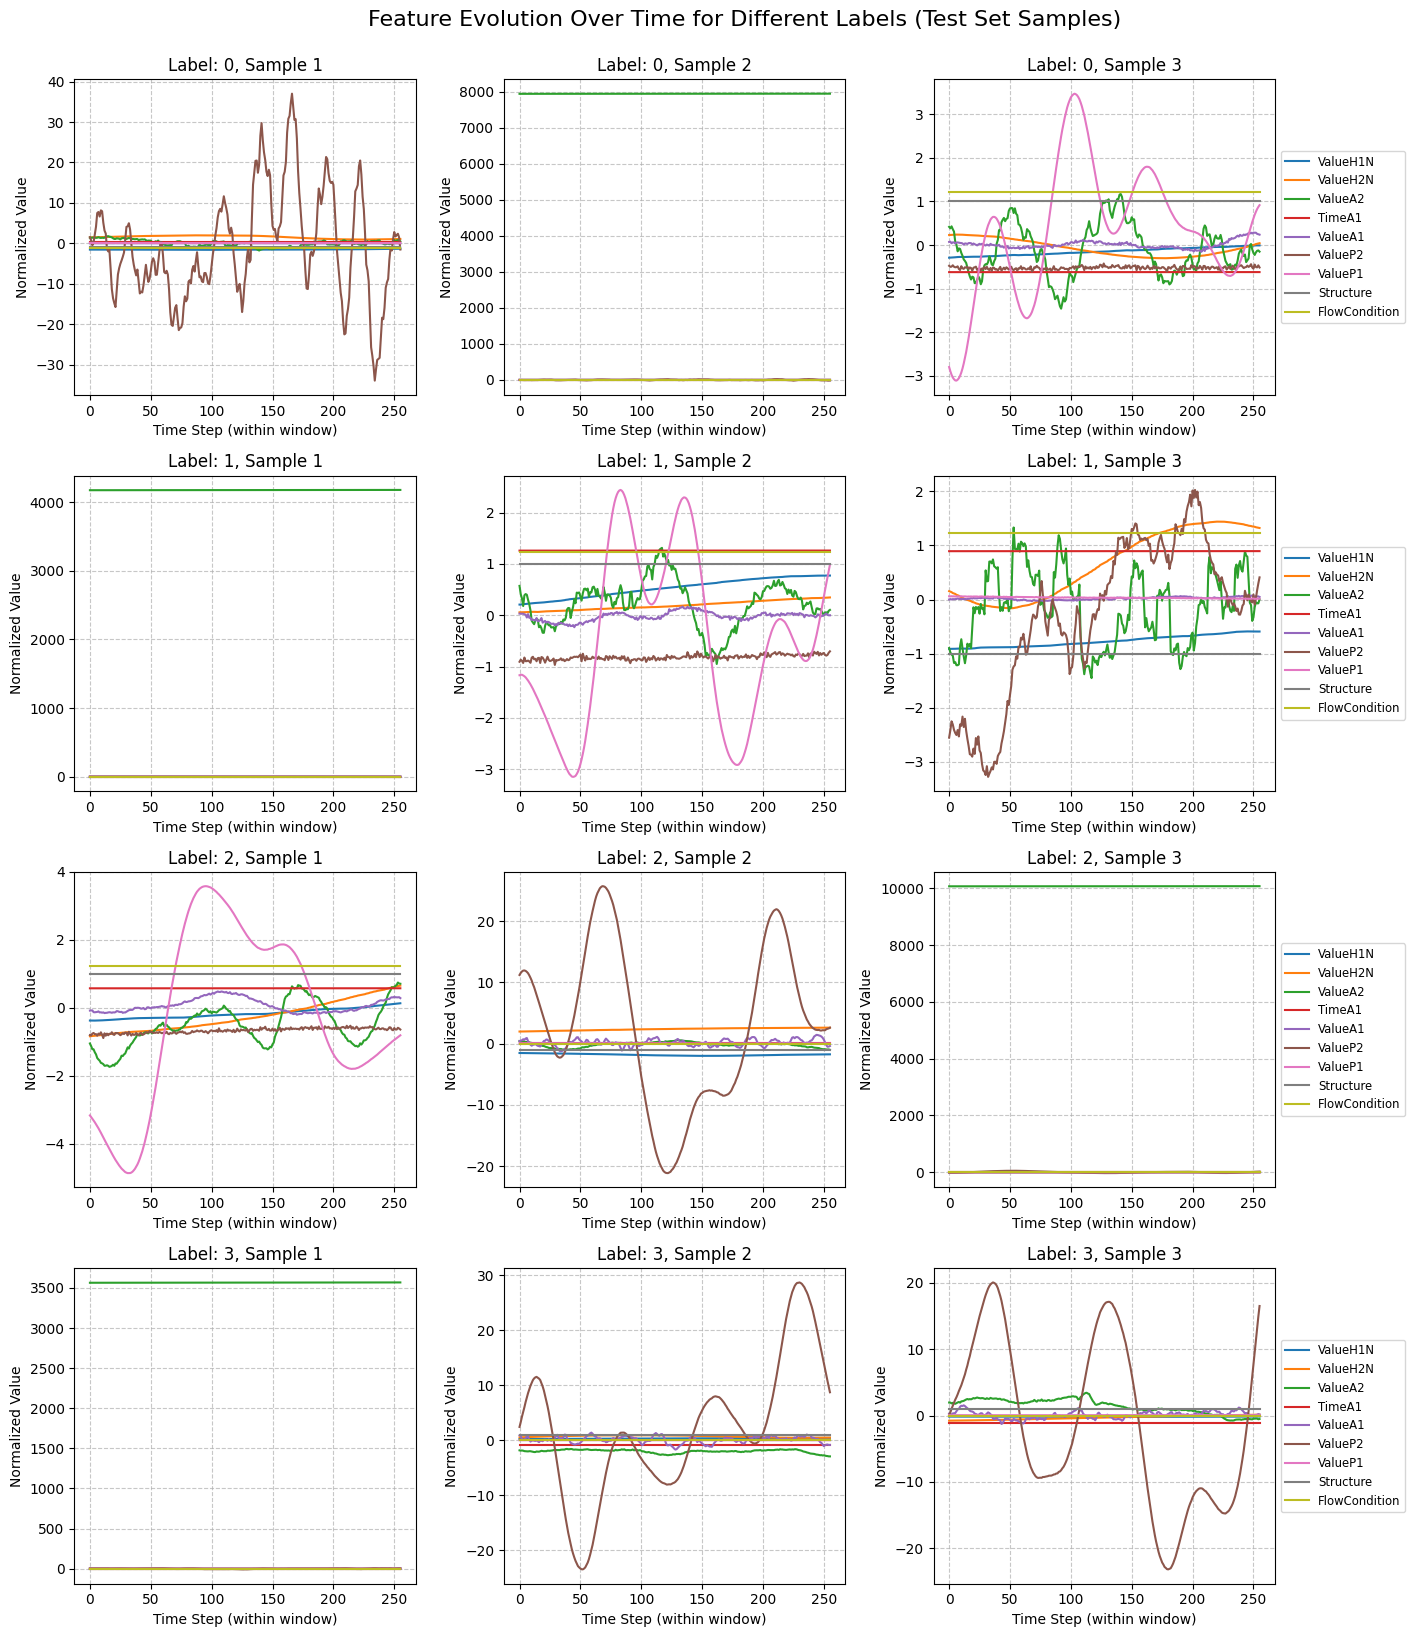
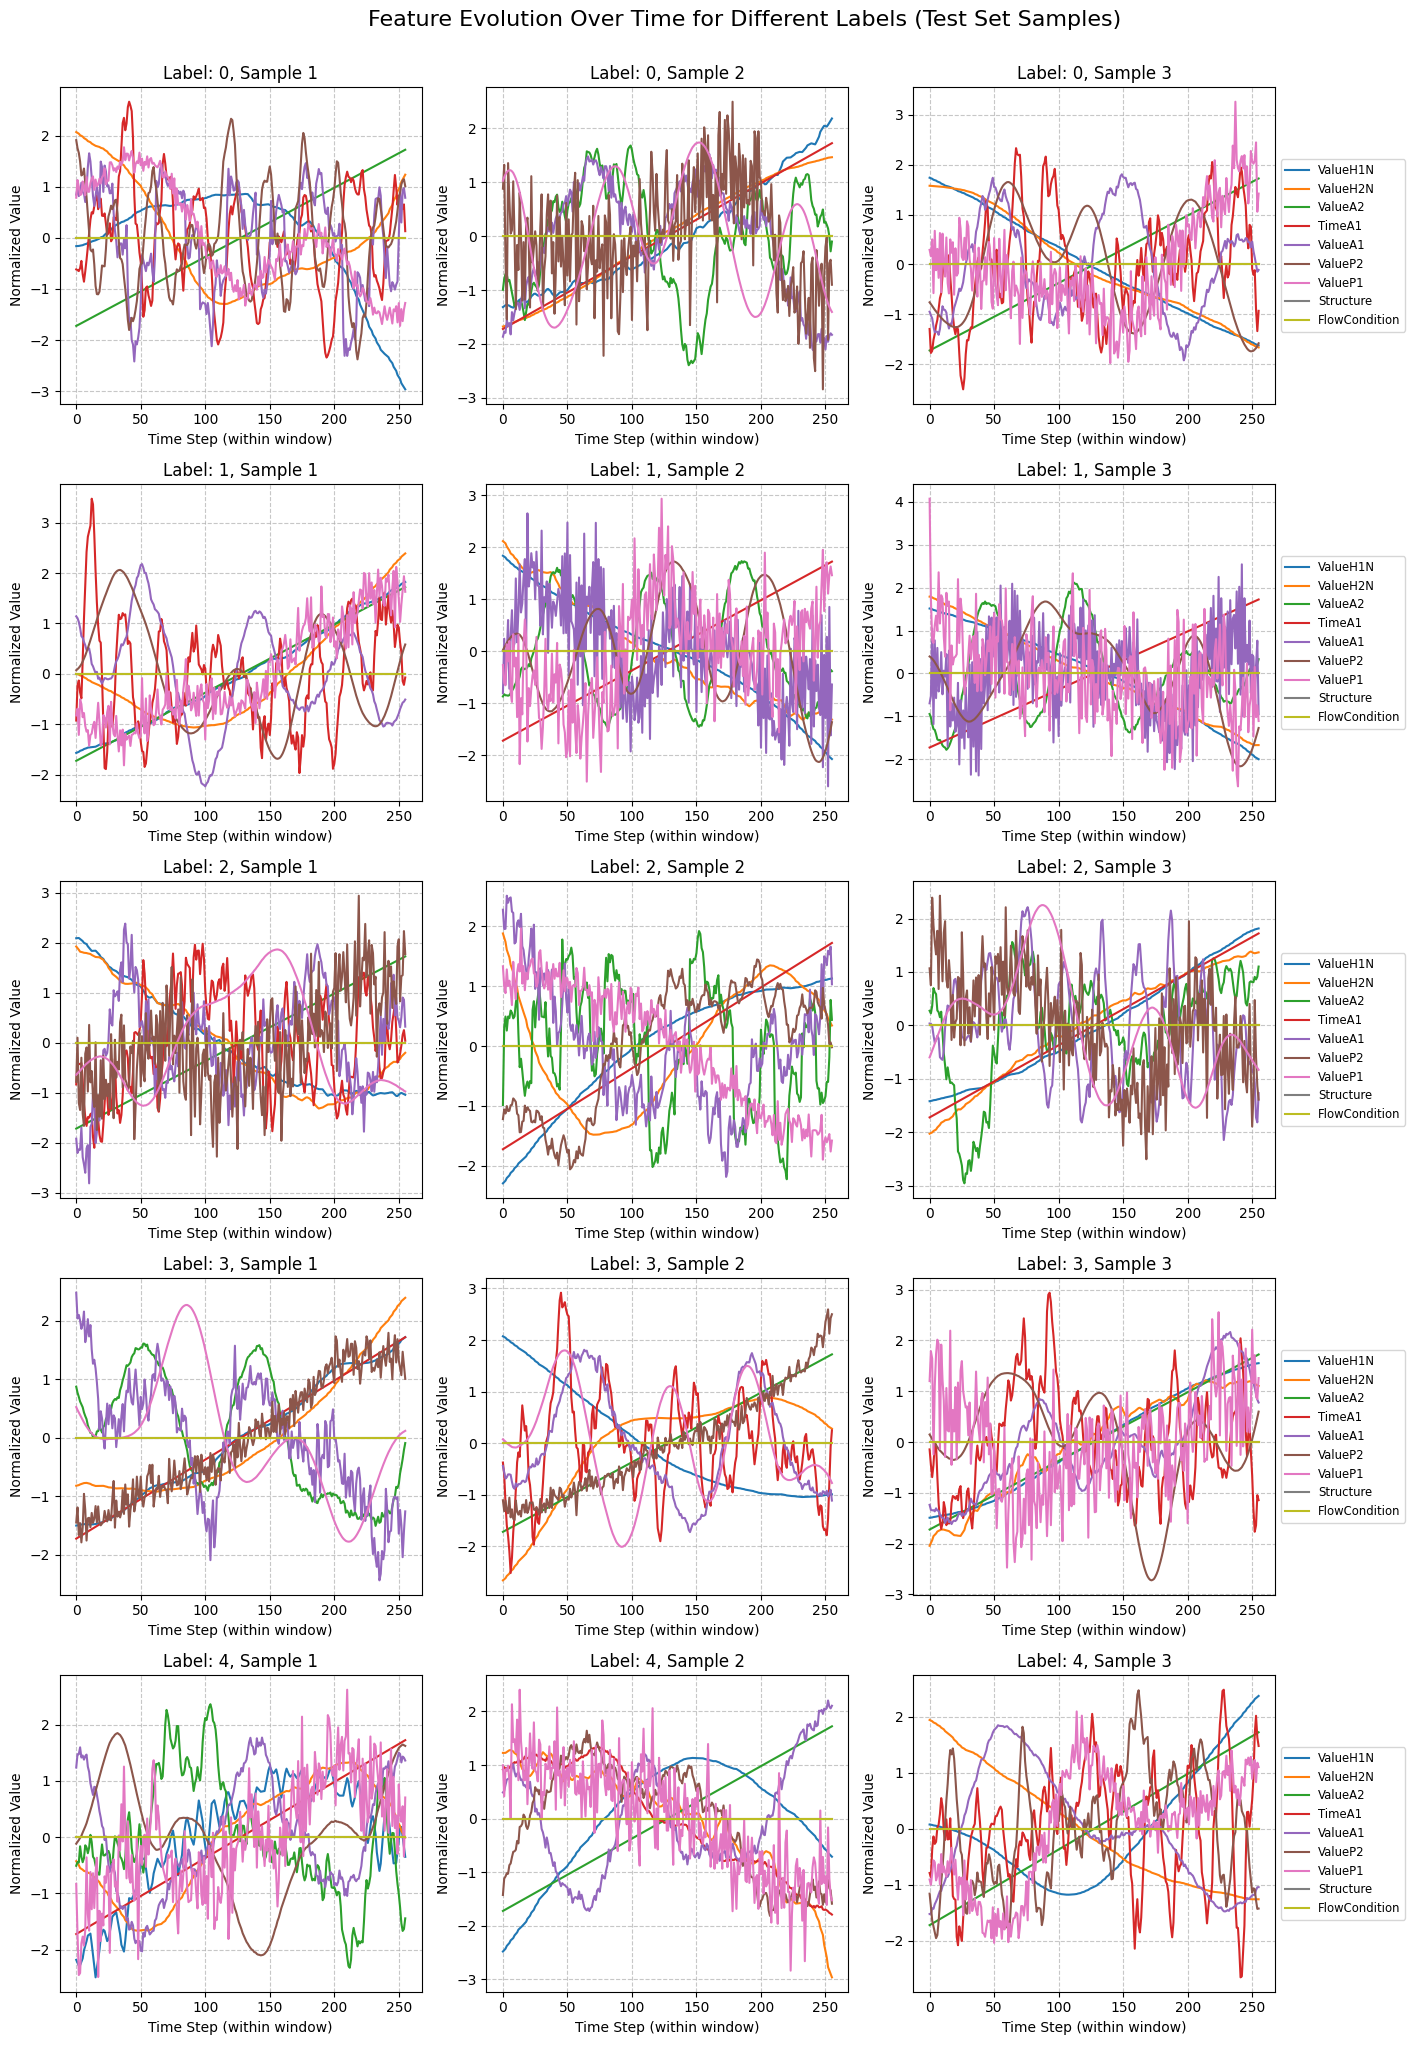
更新进度

Changed region(s): [[0.0, 0.0, 0.9958, 0.9969]]

diff --git a/Loader/SeriesLoader.py b/Loader/SeriesLoader.py
@@ -3,7 +3,7 @@ from torch.utils.data import Dataset
 import pandas as pd
 import numpy as np # 用于计算均值和标准差
 import os
-import glob
+import glob, pdb
 
 class TimeSeriesDataset(Dataset):
     """
@@ -13,7 +13,7 @@ class TimeSeriesDataset(Dataset):
     - 添加了Z-score数据归一化。
     支持样本级别的归一化处理, 全部数据的归一化处理, 和不做归一化处理
     """
-    def __init__(self, data_dir, file_pattern, window_size, stride=1, target_col='LeakType', Normalization="None"):
+    def __init__(self, data_dir, file_pattern, window_size, stride=1, delete_col = [],constant_col = [], target_col='LeakType', Normalization="None"):
 #    初始化数据集。, 并指定归一化处理的方式 "None "、"Sample" 或 "All"。
         self.window_size = window_size
         self.stride = stride
@@ -26,7 +26,7 @@ class TimeSeriesDataset(Dataset):
             
         self.data_tensors = []
         self.feature_indices = [] # 存储特征列的索引
-        
+        self.constant_cols = constant_col
         print("正在初始化数据集并计算归一化参数...")
         
         # 1. 确定特征列和目标列的整数索引
@@ -36,9 +36,11 @@ class TimeSeriesDataset(Dataset):
             raise ValueError(f"目标列 '{self.target_col}' 在文件 {file_paths[0]} 中不存在。")
         
         self.target_idx = temp_df.columns.get_loc(self.target_col)
-        self.feature_cols_names = [col for col in temp_df.columns if col != self.target_col]
+        self.feature_cols_names = [col for col in temp_df.columns if (col != self.target_col and col not in delete_col) ]
         self.feature_indices = [temp_df.columns.get_loc(col) for col in self.feature_cols_names]
 
+        print(self.feature_cols_names, "特征列已确定。")
+        print(self.feature_indices, "特征索引已确定。")
         # 2. 收集所有特征数据用于计算均值和标准差
         # 这一步会遍历所有文件，将特征数据临时存储起来，用于全局统计量的计算。
         # 对于非常大的数据集，这可能仍然占用大量内存。
@@ -73,7 +75,7 @@ class TimeSeriesDataset(Dataset):
             df = pd.read_csv(file_path)
             tensor_data = torch.tensor(df.values, dtype=torch.float32)
             self.data_tensors.append(tensor_data)
-        
+
         # 6. 创建索引映射表（与之前相同）
         self.index_map = []
         print("正在创建样本索引...")
@@ -106,7 +108,6 @@ class TimeSeriesDataset(Dataset):
         
         # 特征已经是 float32 类型
         features = data_tensor[start_idx:end_idx, self.feature_indices]
-        
         # 4. 应用归一化
         if self.Normalization == "All":
             # 使用预先计算的均值和标准差进行 Z-score 标准化

diff --git a/drawPic.py b/drawPic.py
@@ -36,7 +36,7 @@ def plot_test_samples(test_loader, dataset_instance, num_samples_per_label=3, ou
     # 注意：这里我们只从DataLoader中获取一定数量的样本，以避免内存溢出
     # 如果测试集很大，你可能需要更智能的抽样策略
     max_samples_to_collect = 1000 # 收集多一些，确保能抽到
-    
+    pdb.set_trace() # 调试用
     for batch_idx, (data, labels) in enumerate(test_loader):
         for i in range(data.shape[0]):
             sample_data = data[i].cpu().numpy() # (window_size, input_size)
@@ -105,7 +105,9 @@ def main():
         window_size=config["window_size"],
         stride=config["stride"],
         target_col=config["target_col"],
-        Normalization="All" # 默认启用归一化
+        Normalization="Sample" # 默认启用归一化
+        , delete_col=config["delete_col"] , # 删除不需要的列
+        constant_col=config["constant_col"] # 常量列不参与归一化
     )
     
     # 计算划分大小：训练集、验证集、测试集
@@ -177,7 +179,6 @@ def main():
             max_len=config["window_size"]  # 确保最大长度与窗口大小一致
         ).to(device)
     
-    model.load_state_dict(torch.load("best_classification_model_LSTM.pth", map_location=device))
     # 对于单标签多分类任务，CrossEntropyLoss是标准选择
     # 注意：如果您只是为了绘图，下面这行可以注释掉，因为它需要一个预训练模型文件
     # try:

diff --git a/config.py b/config.py
@@ -5,15 +5,16 @@ config = {
         "stride": int(2560 * 0.1), 
         "target_col": 'LeakType',
         "batch_size": 64,
-        "num_workers": 8,  # 根据你的CPU核心数调整
+        "num_workers": 1,  # 根据你的CPU核心数调整
         "validation_split": 0.2, # 使用20%的数据作为验证集
-        
+        "delete_col": [],  # 删除不需要的列
+        "constant_col": ["Structure", "FlowCondition"],  # 常量列不参与归一化
         "dropout": 0.2,
         
         "Normalization": "Sample",  # 是否启用归一化
-        "model": "",  # 可选 "LSTM" 或 "Transformer"
+        "model": "FFT",  # 可选 "LSTM" 或 "Transformer"
         "num_epochs": 100,   # 增加训练轮数以观察效果
-        "learning_rate": 0.01,
+        "learning_rate": 0.001,
         "seed" : 1234,
         "milestone": [33,66],  # 学习率调整的里程碑
         "gamma": 0.2,  # 学习率调整的衰减

diff --git a/leakTrain.py b/leakTrain.py
@@ -24,7 +24,9 @@ def main():
         window_size=config["window_size"],
         stride=config["stride"],
         target_col=config["target_col"],
-        Normalization=config.get("Normalization", True)  # 默认启用归一化
+        Normalization=config.get("Normalization", True) ,
+        delete_col=config["delete_col"] , # 删除不需要的列
+        constant_cols=config["constant_cols"] # 常量列不参与归一化
     )
     
     # 计算划分大小
